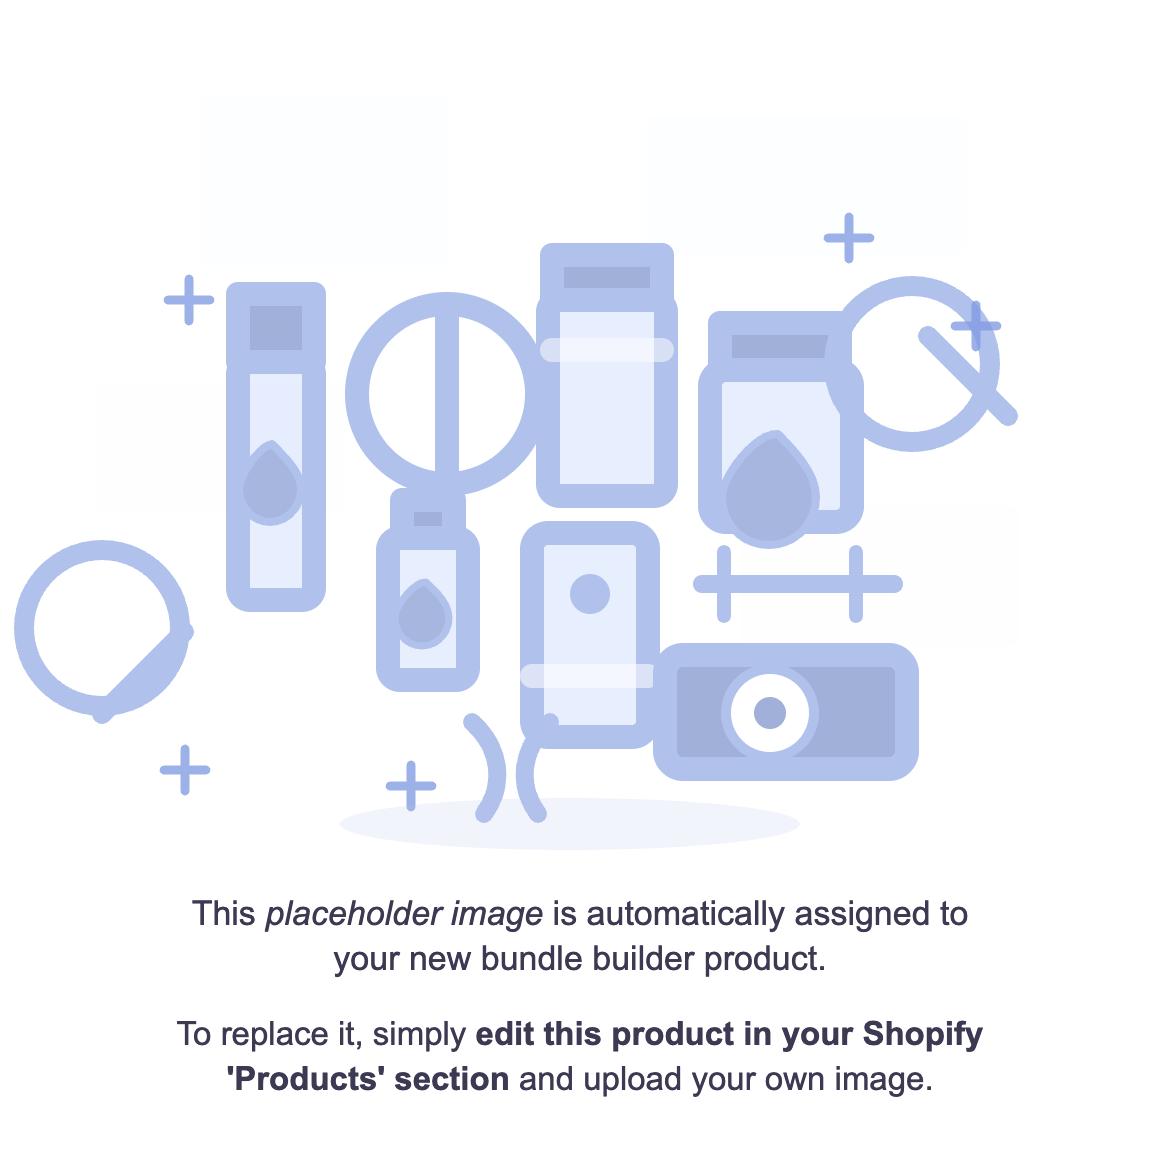
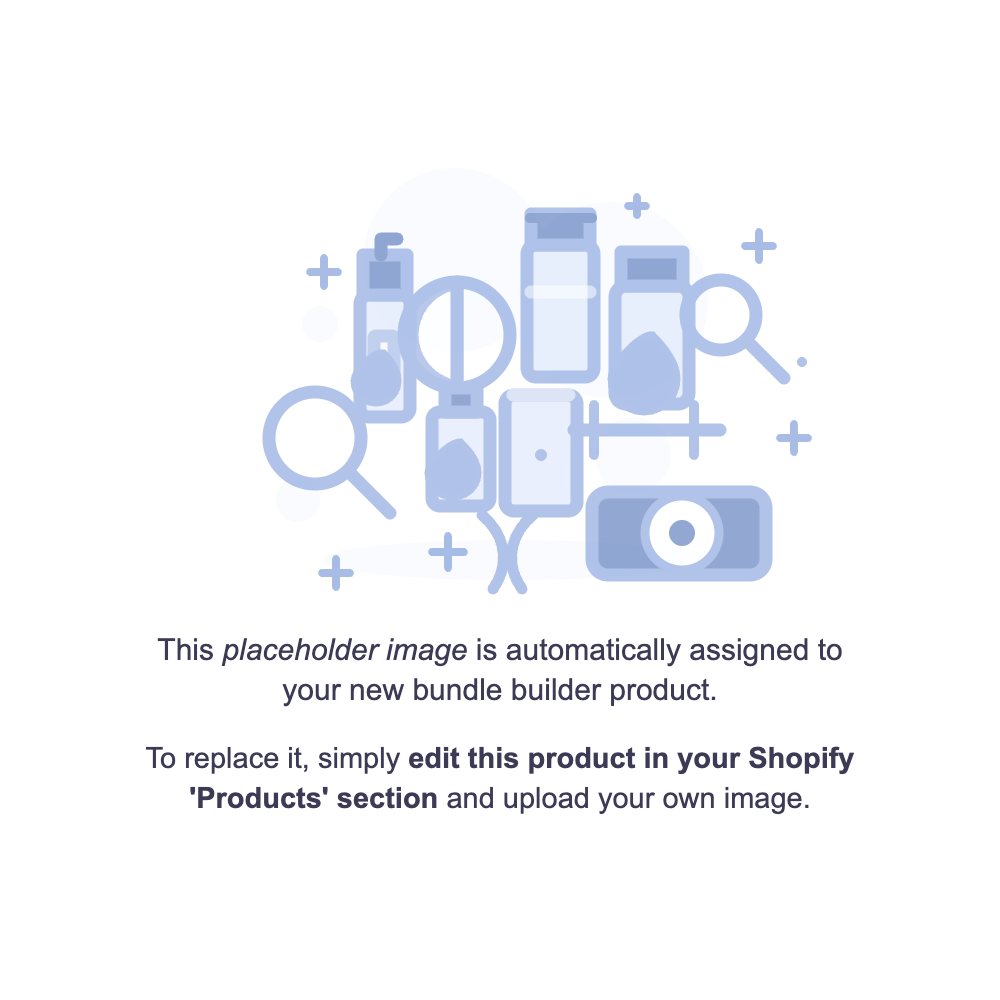
[eb-ui-clone-rewrite-1] style: align PPB generated placeholder artwork
Impact: updates only the app-owned generated bundle product placeholder asset used by Product Page product creation/sync media.
Affected: public/bundle-product-placeholder.svg, public/bundle-product-placeholder.png, evidence manifest, issue log, graph report.
Tested by: file public/bundle-product-placeholder.png public/bundle-product-placeholder.svg; npm run build; npm run build:widgets; npm run minify:assets css; rg -n -i "easybundles|gift-box-builder|skai|skailama" app tests extensions scripts prisma public; graphify rebuild; git diff --check.
Evidence: /private/tmp/wpb-bundle-product-placeholder-rendered-2026-05-27.png; /private/tmp/wpb-bundle-product-placeholder-svg-proof-2026-05-27.png.

diff --git a/docs/issues-prod/eb-ui-clone-rewrite-1.md b/docs/issues-prod/eb-ui-clone-rewrite-1.md
@@ -3,7 +3,7 @@
 **Status:** In Progress
 **Priority:** High
 **Created:** 2026-05-26
-**Last Updated:** 2026-05-27 05:17 IST
+**Last Updated:** 2026-05-27 05:23 IST
 
 ## Overview
 
@@ -355,6 +355,27 @@ Emails and Customize Emails are out of scope. Competitor references remain docs-
 - Patched Product Page Sync Product and hard Sync Bundle to run DB-authoritative metafield rewrites regardless of pricing state; pricing remains `null` when no pricing row exists.
 - Verification passed: focused Jest, modified-file ESLint with 0 errors, code competitor-reference scan with no matches, `npm run build`, `npm run build:widgets`, `npm run minify:assets css`, graph rebuild with the known graphify extraction warning, and `git diff --check`.
 - Next: commit this scoped runtime-sync slice, then capture deployed/local Admin Sync Product runtime JSON proof before marking the generated-product runtime row green.
+
+### 2026-05-27 05:18 IST - PPB Sync Product runtime rewrite committed
+- Committed the no-pricing runtime metafield rewrite slice as `39cfdcea` with issue prefix `[eb-ui-clone-rewrite-1]`.
+- Post-commit graph hook output was normalized by trimming generated trailing spaces; no tracked code files are dirty after the commit.
+- Next: continue the generated product visual parity loop from the exact placeholder artwork/full Product Page visual comparison gap.
+
+### 2026-05-27 05:19 IST - PPB generated placeholder artwork slice started
+- Compared the reference parent-product placeholder artwork against WPB's app-owned `public/bundle-product-placeholder.svg` and `.png`; the copy and purpose match, but WPB's illustration is oversized and visibly different in the product media gallery.
+- Scope: replace only the app-owned placeholder artwork under the existing stable filenames so the existing generated-product media pipeline and Shopify media URL contract do not change.
+- Next edit: reshape the SVG to the reference proportions, regenerate the PNG from it, then capture a local image proof before committing.
+
+### 2026-05-27 05:22 IST - PPB generated placeholder artwork proof captured
+- Replaced `public/bundle-product-placeholder.svg` with a 1000x1000 app-owned asset using the stable placeholder copy and tighter reference-like illustration proportions.
+- Regenerated `public/bundle-product-placeholder.png` from the SVG via browser canvas export; the PNG is now 1000x1000 instead of 1160x1160.
+- Local rendered proof is stored at `/private/tmp/wpb-bundle-product-placeholder-rendered-2026-05-27.png`; direct SVG browser screenshot proof is `/private/tmp/wpb-bundle-product-placeholder-svg-proof-2026-05-27.png`.
+- Next: run build/code scans/graph checks, update the manifest, then commit this app-owned artwork slice.
+
+### 2026-05-27 05:23 IST - PPB generated placeholder artwork verification passed
+- Verification passed: asset type check confirms 1000x1000 PNG plus SVG source, code competitor-reference scan returned no matches, `npm run build`, `npm run build:widgets`, `npm run minify:assets css`, graph rebuild, and `git diff --check`.
+- The app-owned media URL path is unchanged (`/bundle-product-placeholder.png`), so generated product create/sync code does not need a data contract change.
+- Next: commit the placeholder artwork slice, then run a real Product Page Sync Product after deployment/local server refresh to upload the new media and capture public product JSON plus desktop/mobile proof.
 
 ### 2026-05-26 02:31 IST - Implementation issue initialized
 - Created the implementation issue before any file modifications for this rewrite.

diff --git a/graphify-out/GRAPH_REPORT.md b/graphify-out/GRAPH_REPORT.md
@@ -1,7 +1,7 @@
 # Graph Report - .  (2026-05-27)
 
 ## Corpus Check
-- 457 files · ~2,507,232 words
+- 457 files · ~2,506,616 words
 - Verdict: corpus is large enough that graph structure adds value.
 
 ## Summary

diff --git a/docs/eb-ui-clone-rewrite/evidence-manifest.md b/docs/eb-ui-clone-rewrite/evidence-manifest.md
@@ -83,6 +83,7 @@
 - 2026-05-27 PPB generated product media cleanup note: WPB now has reference/WPB product-context DOM audits `/private/tmp/eb-ppb-product-context-audit-desktop-2026-05-27.json` and `/private/tmp/wpb-ppb-product-context-audit-desktop-2026-05-27.json`, source contracts in `tests/unit/lib/bundle-product-media.test.ts`, `tests/unit/routes/ppb-sync-product.test.ts`, and `tests/unit/routes/ppb-save-bundle.test.ts`, Admin API cleanup proof `/private/tmp/wpb-ppb-generated-product-media-cleanup-admin-api-2026-05-27.json`, desktop runtime `/private/tmp/wpb-ppb-media-cleanup-runtime-desktop-2026-05-27.json` plus screenshot `/private/tmp/wpb-ppb-media-cleanup-storefront-desktop-2026-05-27.png`, and mobile runtime `/private/tmp/wpb-ppb-media-cleanup-runtime-mobile-2026-05-27.json` plus screenshot `/private/tmp/wpb-ppb-media-cleanup-storefront-mobile-2026-05-27.png`. WPB now renders one visible generated product media tile on desktop and mobile. The row remains `partial` because exact generated media artwork, store theme/header/vendor context, and full visual comparison remain open.
 - 2026-05-27 PPB generated product metadata note: WPB now has source contracts in `tests/unit/lib/bundle-product-data.test.ts`, `tests/unit/lib/bundle-product-media.test.ts`, `tests/unit/routes/ppb-sync-product.test.ts`, and `tests/unit/routes/ppb-save-bundle.test.ts` proving saved-name handle generation, `shop.name` vendor, `productType: "product"`, empty generated-media alt, and DB persistence of the Shopify-returned handle. Live fixture proof: Admin screenshot `/private/tmp/wpb-ppb-generated-product-data-admin-2026-05-27.png`, Admin API/DB proof `/private/tmp/wpb-ppb-generated-product-data-sync-admin-api-2026-05-27.json`, public product JSON `/private/tmp/wpb-ppb-product-js-after-data-sync-2026-05-27.json`, desktop runtime `/private/tmp/wpb-ppb-generated-product-data-runtime-desktop-2026-05-27.json` plus screenshot `/private/tmp/wpb-ppb-generated-product-data-storefront-desktop-2026-05-27.png`, and mobile runtime `/private/tmp/wpb-ppb-generated-product-data-runtime-mobile-2026-05-27.json` plus screenshot `/private/tmp/wpb-ppb-generated-product-data-storefront-mobile-2026-05-27.png`. Product JSON now matches the evidence-backed title/handle/type/media-alt shape and uses the current shop name as vendor. The `ppb-template-horizontal-slots` row remains `partial` because exact generated media artwork and full visual comparison remain open; this slice did not copy competitor media.
 - 2026-05-27 PPB Sync Product runtime rewrite note: WPB now has source contract `tests/unit/routes/ppb-sync-product.test.ts` proving manual Product Page Sync Product rewrites component and bundle-product metafields even when pricing is not enabled, with `pricing: null`, current steps, and the Shopify product handle. This closes the source-level stale-runtime gate isolated in the generated-product metadata proof, but the `ppb-template-horizontal-slots` row remains `partial` until a deployed/local Admin Sync Product action captures fresh runtime JSON and desktop/mobile screenshots.
+- 2026-05-27 PPB generated placeholder artwork note: WPB now has app-owned placeholder artwork source `public/bundle-product-placeholder.svg` and raster `public/bundle-product-placeholder.png` regenerated at 1000x1000, with local rendered proof `/private/tmp/wpb-bundle-product-placeholder-rendered-2026-05-27.png` and SVG screenshot proof `/private/tmp/wpb-bundle-product-placeholder-svg-proof-2026-05-27.png`. The `ppb-template-horizontal-slots` row remains `partial` until the asset is uploaded through Product Page Sync Product and fresh public product JSON plus desktop/mobile product-page proof confirm the Shopify CDN media changed.
 - Add WPB proof filenames to the same row before changing status to `green`.
 - Keep screenshots outside the worktree.
 - If new EB help or Shopify behavior is discovered, update `internal docs/EB Implementation Reference.md` and link it from `internal docs/index.md`.